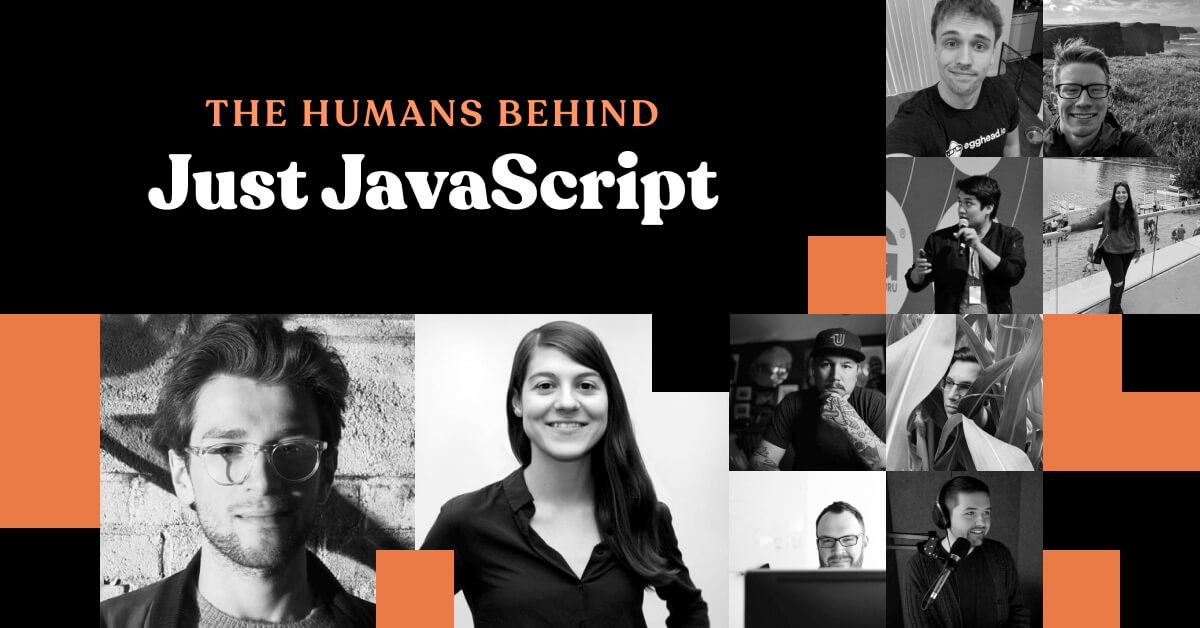
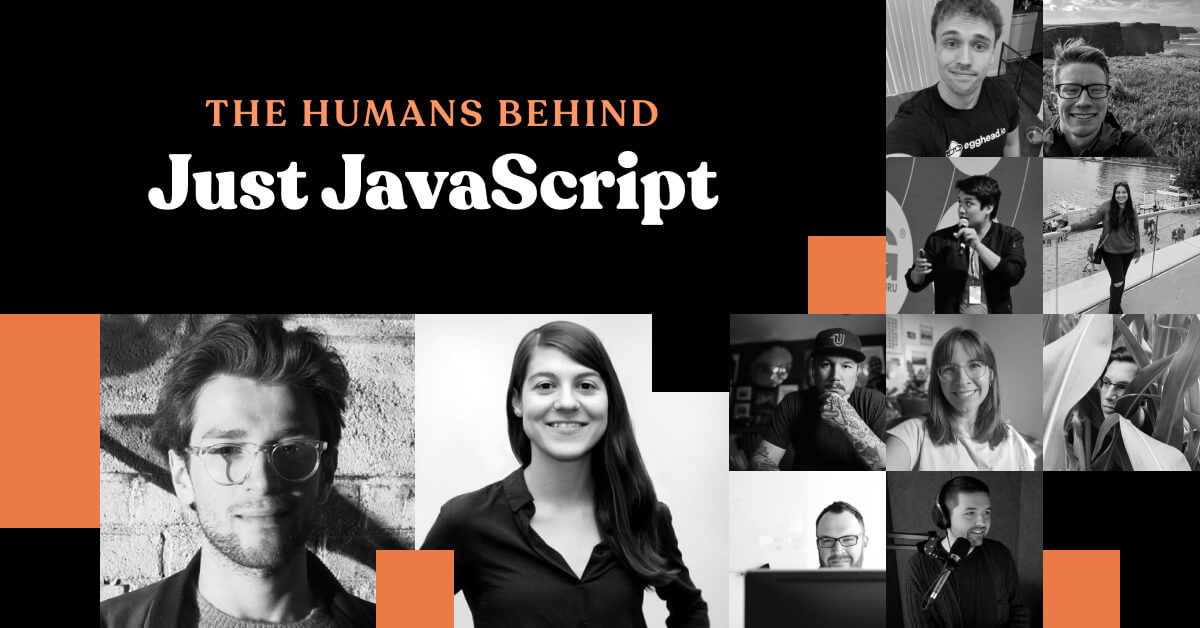
update credits og image

diff --git a/pages/credits.js b/pages/credits.js
@@ -9,7 +9,9 @@ const CreditsPage = () => {
       background="bg-white"
       meta={{
         title: 'Meet humans behind Just JavaScript',
-        ogImage: { url: 'https://justjavascript.com/team/og-image@2x.jpg' },
+        ogImage: {
+          url: 'https://justjavascript.com/team/og-image@2x.jpg?v=20210716',
+        },
       }}
     >
       <div className="max-w-screen-lg w-full mx-auto sm:py-24 py-20">
